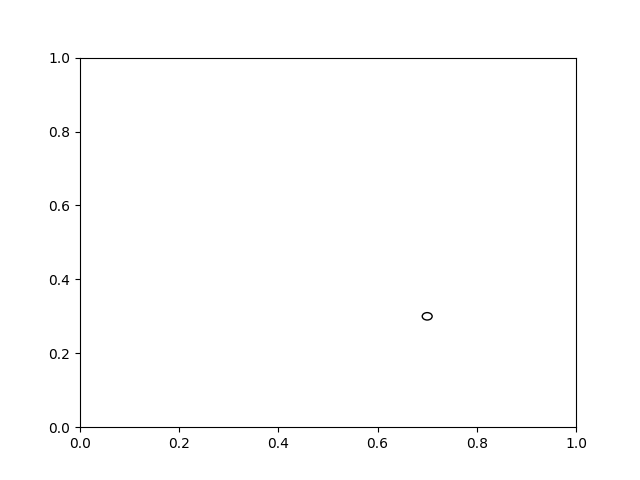
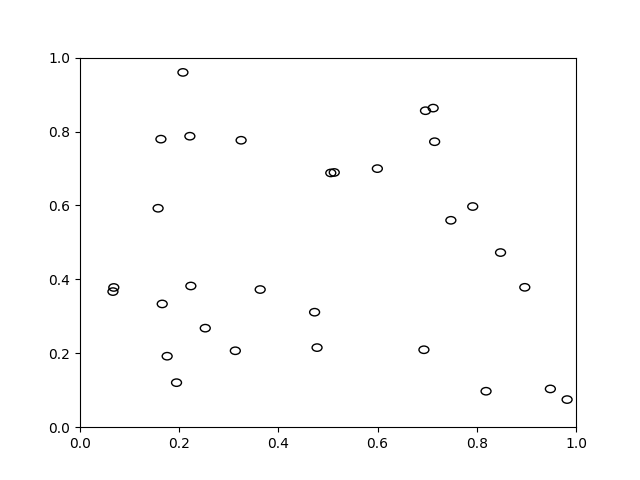
Many Circles :D

diff --git a/main.py b/main.py
@@ -1,5 +1,6 @@
 import matplotlib.pyplot as plt
 import numpy as np
+import random
 
 import matplotlib.animation as animation
 
@@ -19,10 +20,22 @@ class particle:
 
 class animation:
 	'''The animation'''
-	def __init__(self):
-		fig, ax = plt.subplots()
-		molecule = particle(0.7,0.3,0,0)
-		particle.draw(molecule, ax)
-		fig.savefig('animation.png')
+	def __init__(self, n):
+		self.number = n
+	
+	def drawParticles(self, ax):
+		molecules = np.ndarray((self.number,),dtype=object)
+		dx = 0
+		dy = 0
+		for i in range(self.number):
+			x = random.random()
+			y = random.random()
+			molecules[i]=particle(x,y,dx,dy)
+		for molecule in molecules:
+			particle.draw(molecule, ax)
 
-ani = animation()
+
+fig, ax = plt.subplots()
+ani = animation(30)
+ani.drawParticles(ax)
+fig.savefig('animation.png')
